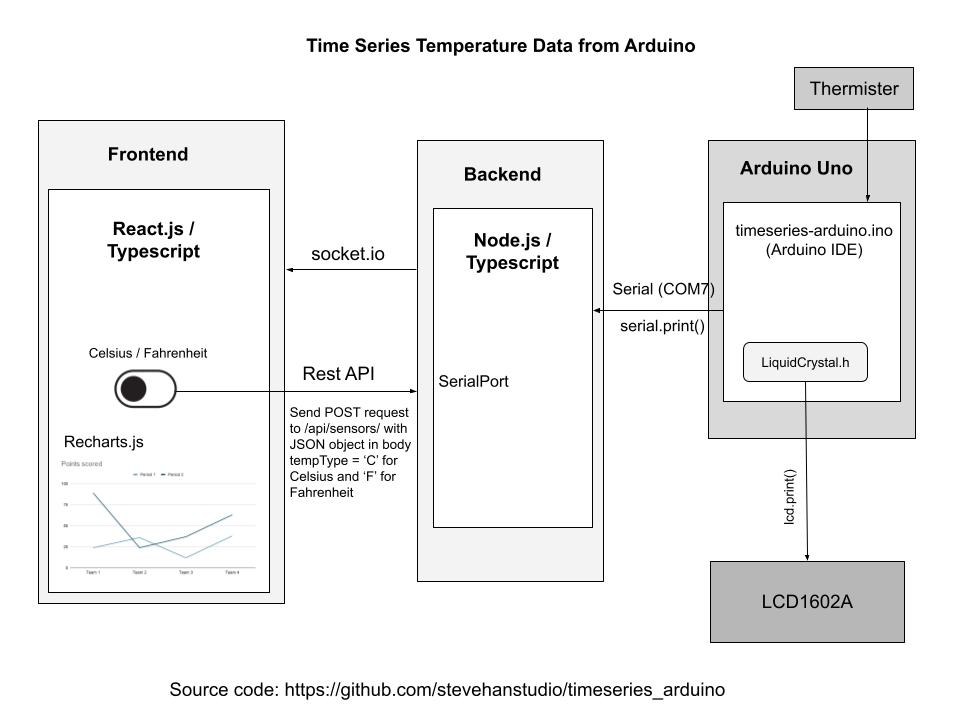
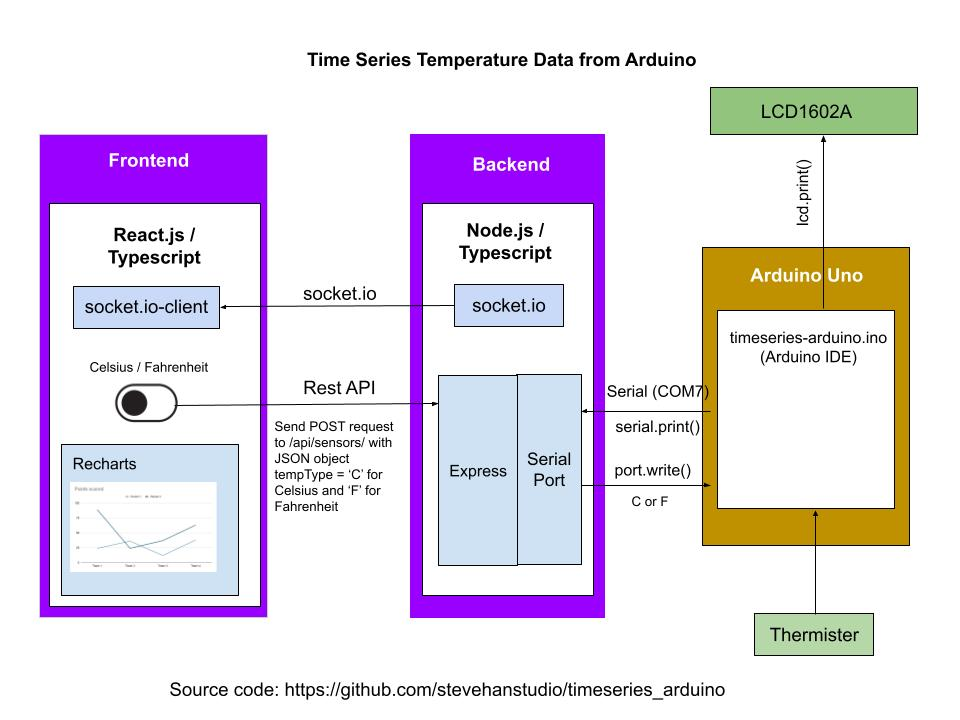
Update block diagram and README

diff --git a/README.md b/README.md
@@ -1,6 +1,8 @@
 # Time Series Temperature Data from Arudino
 
-This project was for the Arudino IoT section of the course [CNIT 133I - Javascript for IoT and XR](https://www.coursicle.com/ccsf/courses/CNIT/133I/) at CCSF.  A [Arduino Uno](https://www.amazon.com/gp/product/B01D8KOZF4/ref=ppx_yo_dt_b_asin_title_o06_s00?ie=UTF8&psc=1) is used to read temperature sensor data from a thermister and displayed on an LCD.  The data is also send to a backend Node server through the serial port (COM7 on my Windows 10 PC).  The
+This project was for the Arudino IoT section of the course [CNIT 133I - Javascript for IoT and XR](https://www.coursicle.com/ccsf/courses/CNIT/133I/) at CCSF.  An [Arduino Uno](https://www.amazon.com/gp/product/B01D8KOZF4/ref=ppx_yo_dt_b_asin_title_o06_s00?ie=UTF8&psc=1) is used to read temperature sensor data from a thermister and displayed on an LCD.  The data is also send to a backend Node server through the serial port (COM7 on my Windows 10 PC).
+
+The Node uses the Serialport library to read from the Arduino and uses Socket.io send the data to the React frontend.  The React frontend uses socket.io-client to read the data and displays it.  It was shows the data on a chart as it comes in.  There's switch to switch between celsius and fahrenheit that communicates with the backend through a POST request.
 
 Typescript is used on both the Node server and the React frontend.
 
